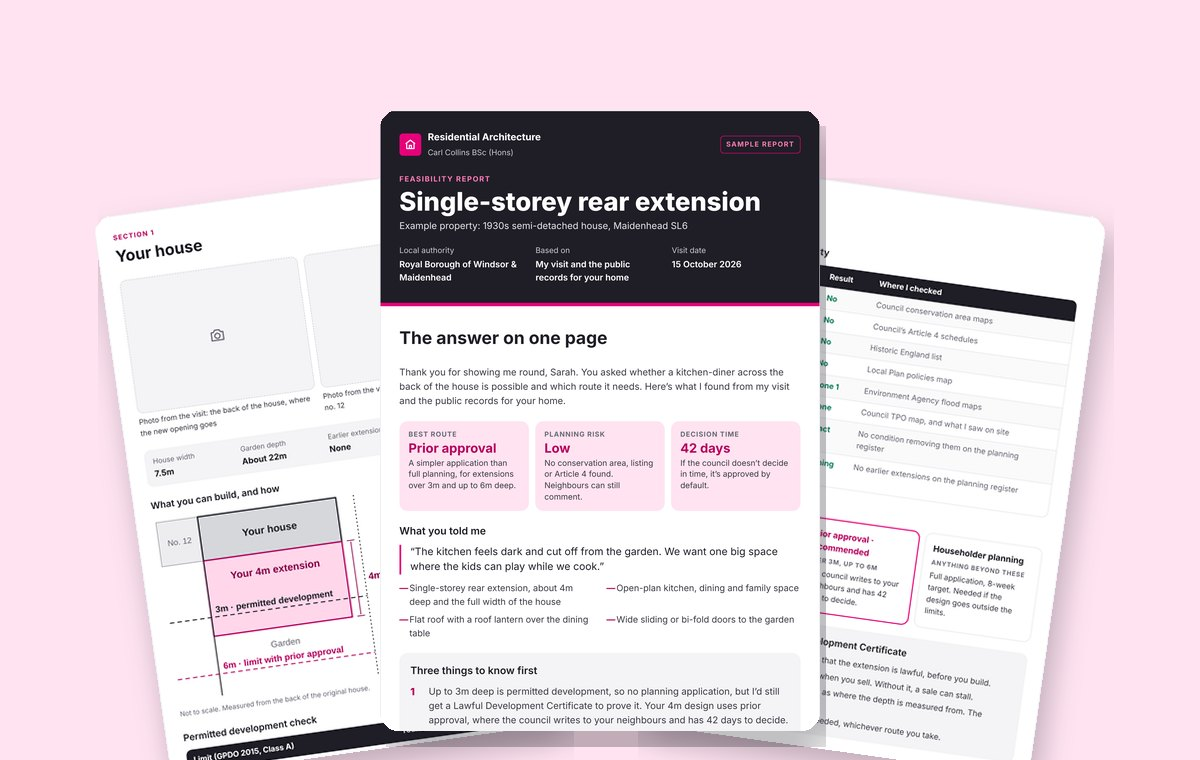
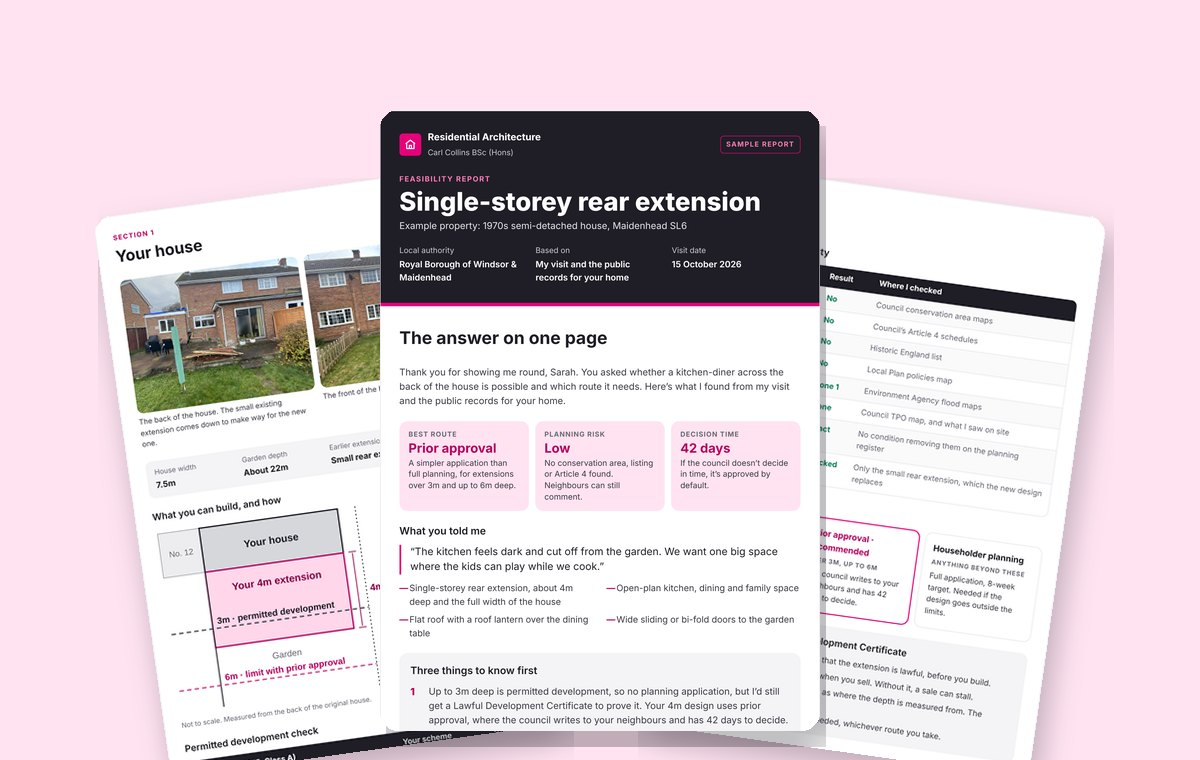
Sample report: real house photos (number and person blurred), 1970s semi details
Claude-Session: https://claude.ai/code/session_01GnJBwqech3V3d9pt7vnQM8

diff --git a/feasibility-report/index.html b/feasibility-report/index.html
@@ -87,7 +87,7 @@ blockquote { margin: 0 0 .8rem; padding-left: 1rem; border-left: 3px solid var(-
 
 .photos { display: grid; grid-template-columns: repeat(2, minmax(0, 1fr)); gap: .8rem; }
 .photos figure { margin: 0; display: flex; flex-direction: column; gap: .35rem; }
-.photos .ph { aspect-ratio: 4 / 3; background: var(--bg); border: 1px dashed #C9C7D4; border-radius: 12px; display: grid; place-items: center; color: var(--grey); }
+.photos .ph { aspect-ratio: 4 / 3; width: 100%; height: auto; object-fit: cover; display: block; border-radius: 12px; background: var(--bg); }
 .photos figcaption { font-size: .88rem; color: var(--text); }
 .measures { display: grid; grid-template-columns: repeat(4, minmax(0, 1fr)); gap: .6rem; background: var(--bg); border-radius: 12px; padding: .8rem 1rem; font-size: .85rem; color: var(--grey); }
 .measures b { display: block; color: var(--ink); font-size: 1rem; }
@@ -199,7 +199,7 @@ footer { text-align: center; color: var(--grey); font-size: .85rem; padding: 0 1
         <div>
           <span class="kick">Feasibility report</span>
           <h2>Single-storey rear extension</h2>
-          <p class="addr">Example property: 1930s semi-detached house, Maidenhead SL6</p>
+          <p class="addr">Example property: 1970s semi-detached house, Maidenhead SL6</p>
         </div>
         <div class="meta">
           <div>Local authority<b>Royal Borough of Windsor &amp; Maidenhead</b></div>
@@ -241,13 +241,13 @@ footer { text-align: center; color: var(--grey); font-size: .85rem; padding: 0 1
       <div class="pad">
         <div class="sec-head"><span>Section 1</span><h2>Your house</h2></div>
         <div class="photos">
-          <figure><div class="ph"><svg width="34" height="34" viewBox="0 0 24 24" fill="none" stroke="currentColor" stroke-width="1.6" stroke-linejoin="round" aria-hidden="true"><path d="M4 8h3l2-3h6l2 3h3v11H4z"/><circle cx="12" cy="13" r="3.5"/></svg></div><figcaption>Photo from the visit: the back of the house, where the new opening goes</figcaption></figure>
-          <figure><div class="ph"><svg width="34" height="34" viewBox="0 0 24 24" fill="none" stroke="currentColor" stroke-width="1.6" stroke-linejoin="round" aria-hidden="true"><path d="M4 8h3l2-3h6l2 3h3v11H4z"/><circle cx="12" cy="13" r="3.5"/></svg></div><figcaption>Photo from the visit: the wall on the boundary with no. 12</figcaption></figure>
+          <figure><img class="ph" src="/img/sample-rear.jpg" width="1200" height="900" alt="The back of the example house, with a small existing rear extension and a patio" loading="lazy"><figcaption>The back of the house. The small existing extension comes down to make way for the new one.</figcaption></figure>
+          <figure><img class="ph" src="/img/sample-front.jpg" width="1200" height="900" alt="The front of the example semi-detached house, with a garage to the side" loading="lazy"><figcaption>The front of the house, with the garage to the side.</figcaption></figure>
         </div>
         <div class="measures">
           <div>House width<b>7.5m</b></div>
           <div>Garden depth<b>About 22m</b></div>
-          <div>Earlier extensions<b>None</b></div>
+          <div>Earlier extensions<b>Small rear extension</b></div>
           <div>Ground<b>Clay</b></div>
         </div>
         <div class="plan">
@@ -303,7 +303,7 @@ footer { text-align: center; color: var(--grey); font-size: .85rem; padding: 0 1
             <div class="r"><span class="k">Flood risk</span><span class="ok">Zone 1</span><span class="src">Environment Agency flood maps</span></div>
             <div class="r"><span class="k">Protected trees</span><span class="ok">None</span><span class="src">Council TPO map, and what I saw on site</span></div>
             <div class="r"><span class="k">Permitted development rights</span><span class="ok">Intact</span><span class="src">No condition removing them on the planning register</span></div>
-            <div class="r"><span class="k">Your home&rsquo;s planning history</span><span class="ok">Nothing</span><span class="src">No earlier extensions on the planning register</span></div>
+            <div class="r"><span class="k">Your home&rsquo;s planning history</span><span class="ok">Checked</span><span class="src">Only the small rear extension, which the new design replaces</span></div>
           </div>
         </div>
         <div>
